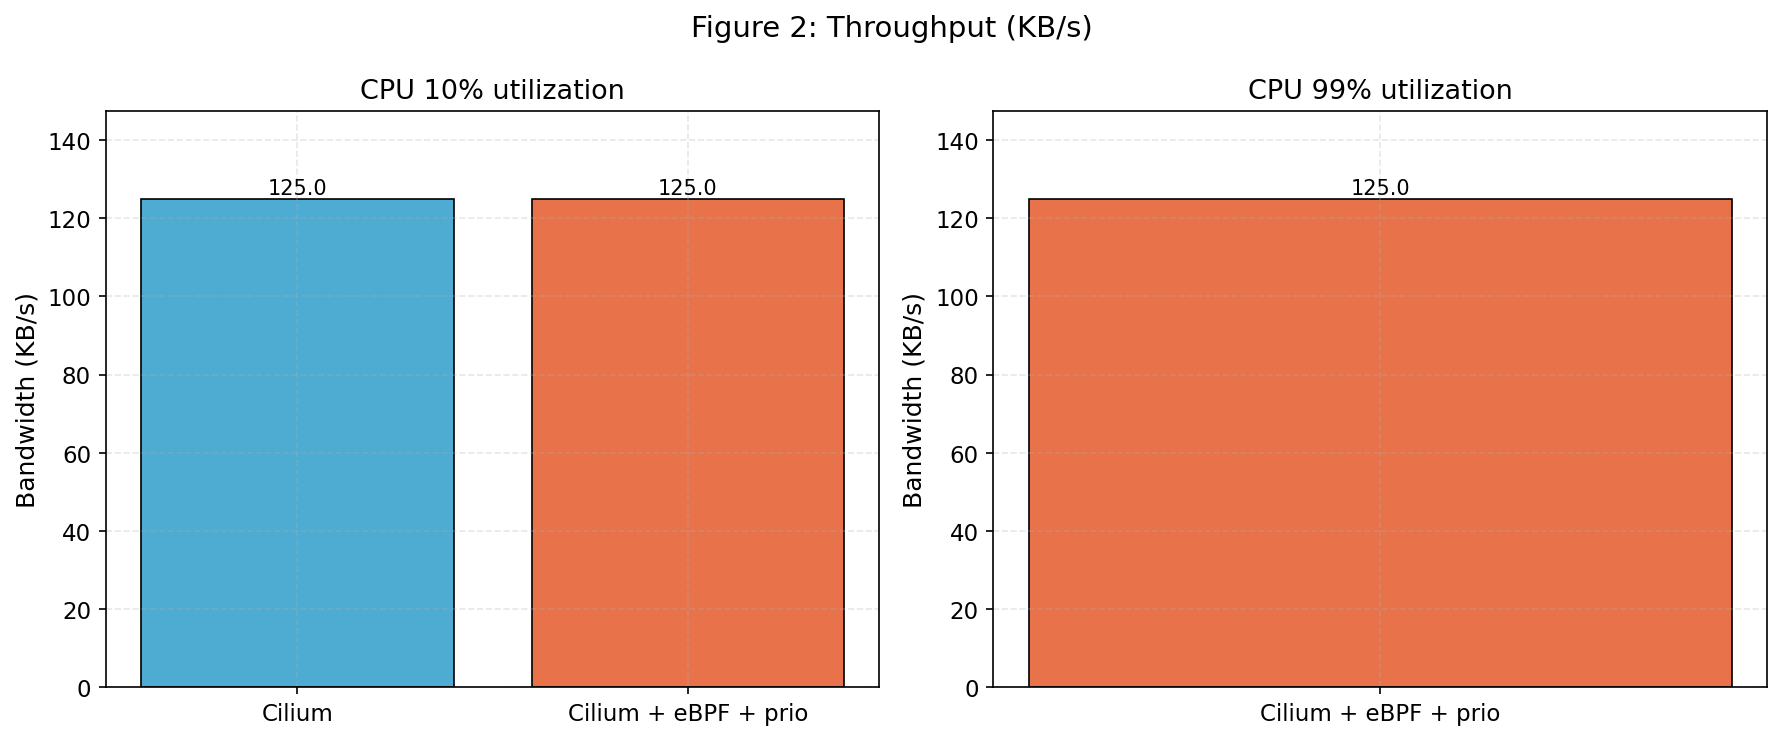
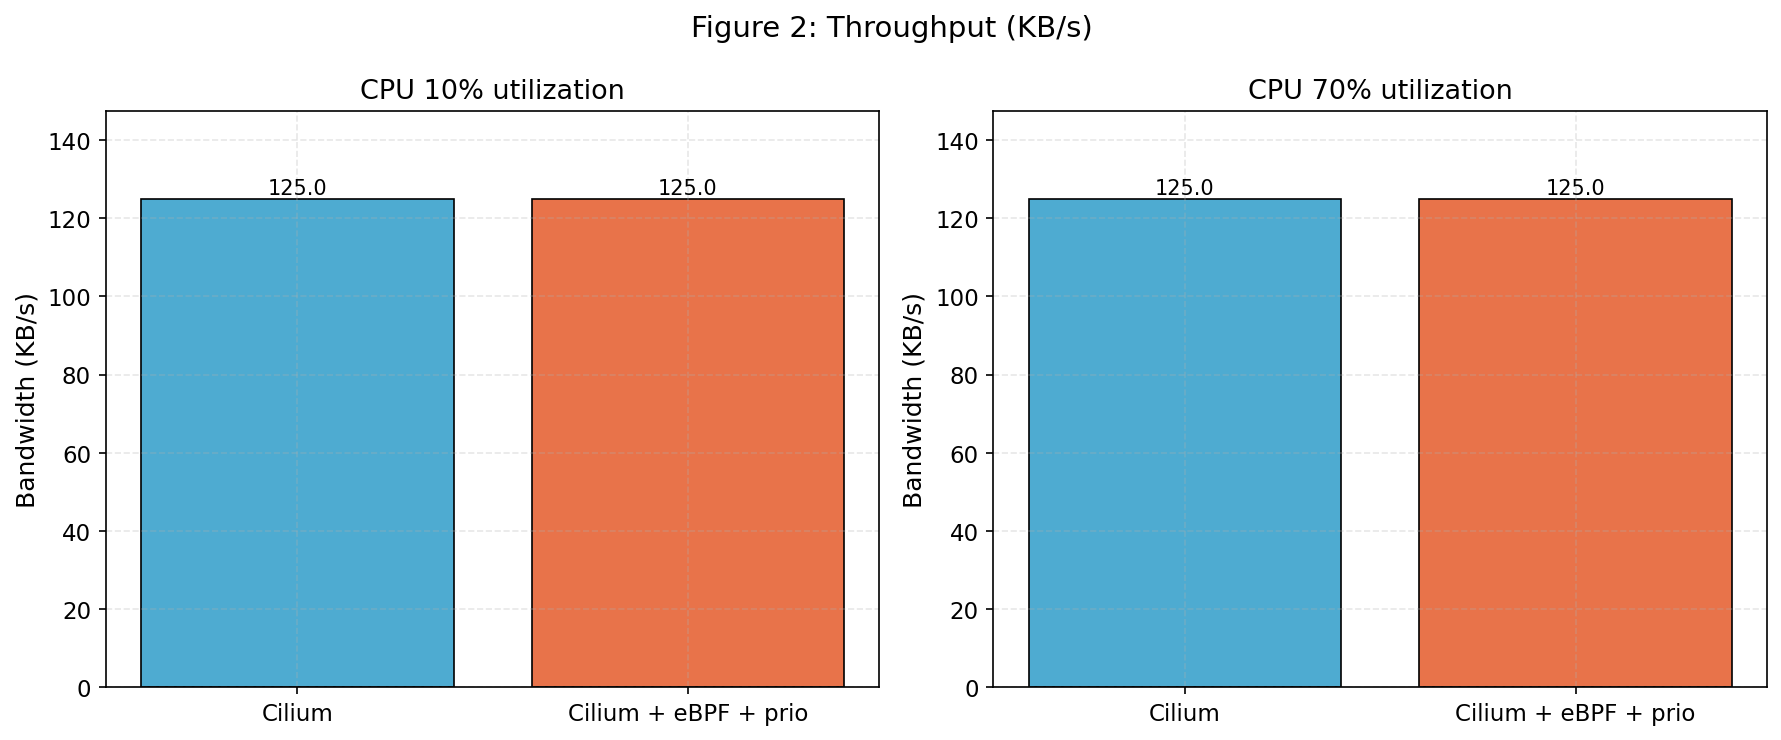
Fix fig2/4/6 low-vs-high CPU selection to use both-data-available loads
Previously: high CPU = highest CPU with ANY data → 99% (proposed only)
            → baseline missing in right panel of CDF/throughput/jitter charts
Now: high CPU = highest CPU where BOTH baseline AND proposed have data → 70%
            → both curves/bars visible side-by-side for proper comparison

Affected: fig2_throughput.png, fig4_jitter.png, fig6_cdf.png

Changed region(s): [[0.5559, 0.2486, 0.8956, 0.9946], [0.9264, 0.9635, 0.9573, 0.9946], [0.8647, 0.2486, 0.8956, 0.2797]]

diff --git a/step8-measurement/plot-results.py b/step8-measurement/plot-results.py
@@ -88,10 +88,14 @@ def percentile(values, p):
 
 
 def figure2_throughput():
-    """Figure 2: Throughput under low/high CPU utilization"""
-    avail = get_partial_cpu_loads()
+    """Figure 2: Throughput under low/high CPU utilization
+    양쪽(baseline+proposed) 모두 있는 CPU 부하에서 low/high 선택"""
+    avail = get_available_cpu_loads()
     if not avail:
-        return
+        # fallback: 한쪽만이라도
+        avail = get_partial_cpu_loads()
+        if not avail:
+            return
     targets = sorted(set([avail[0], avail[-1]]))
     fig, axes = plt.subplots(1, len(targets), figsize=(6 * len(targets), 5))
     if len(targets) == 1:
@@ -212,9 +216,12 @@ def figure3_latency():
 
 
 def figure4_jitter_subset():
-    avail = get_partial_cpu_loads()
+    # baseline+proposed 둘 다 있는 CPU 우선 사용
+    avail = get_available_cpu_loads()
     if not avail:
-        return
+        avail = get_partial_cpu_loads()
+        if not avail:
+            return
     targets = sorted(set([avail[0], avail[-1]]))
     fig, axes = plt.subplots(1, len(targets), figsize=(7 * len(targets), 5))
     if len(targets) == 1:
@@ -274,9 +281,12 @@ def figure5_jitter_all():
 
 
 def figure6_cdf():
-    avail = get_partial_cpu_loads()
+    # baseline+proposed 둘 다 있는 CPU 우선 사용
+    avail = get_available_cpu_loads()
     if not avail:
-        return
+        avail = get_partial_cpu_loads()
+        if not avail:
+            return
     targets = sorted(set([avail[0], avail[-1]]))
     fig, axes = plt.subplots(1, len(targets), figsize=(7 * len(targets), 5))
     if len(targets) == 1:
